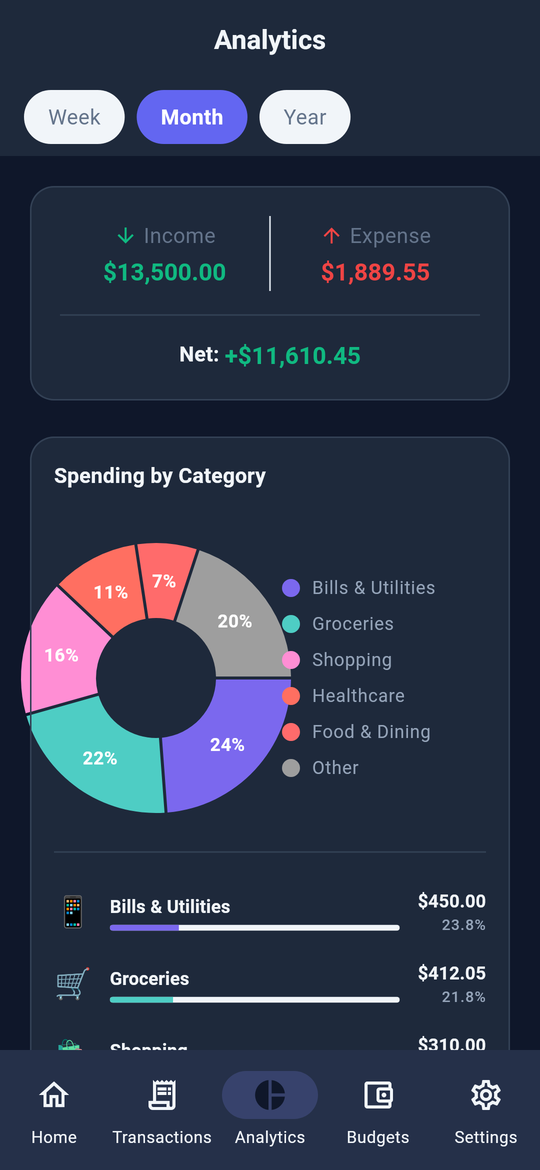
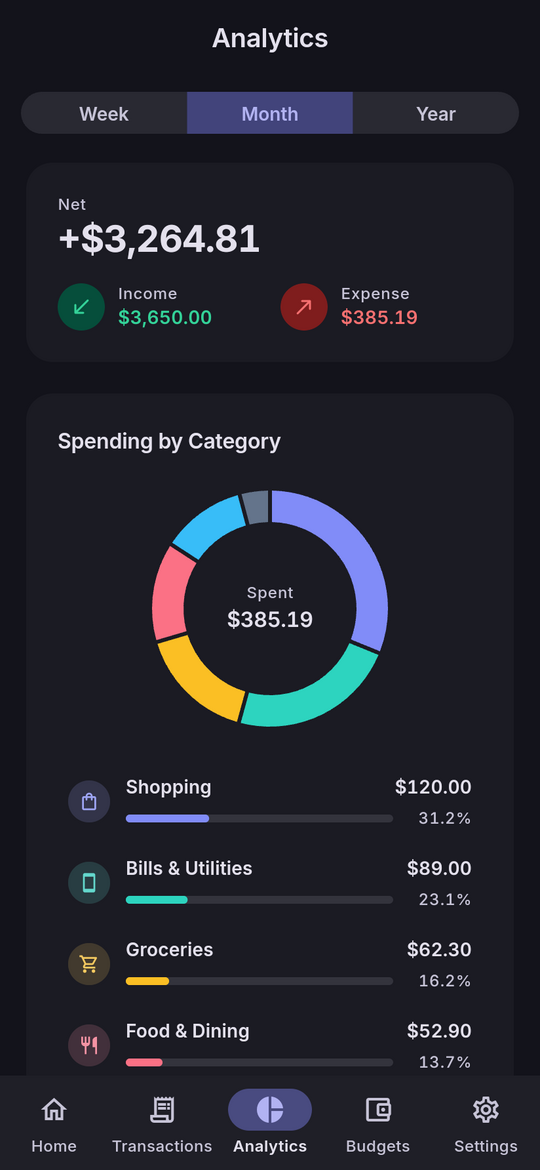
docs: Regenerate screenshots and add the design system guide
docs/screenshots shows the redesigned app (same files and size, sample
data). docs/DESIGN.md documents the color scheme, palette, type scale,
spacing, shape, motion, shared components, patterns, chart rules and the
accessibility checklist for future screens. The README links to it.

diff --git a/docs/DESIGN.md b/docs/DESIGN.md
@@ -1,0 +1,175 @@
+# SpendSheet design system
+
+How SpendSheet looks, and how to build a new screen that fits. The tokens
+live in `lib/core/theme/`; shared components live in `lib/shared/widgets/`.
+
+## Principles
+
+- **Calm by default, color for meaning.** Surfaces are neutral. Green and red
+  mean money in and money out; amber means a budget is close to its limit.
+  Nothing else gets those colors.
+- **Everything comes from the theme.** Widgets never use raw colors. Read
+  `Theme.of(context).colorScheme`, `context.palette` and
+  `Theme.of(context).textTheme`. Light and dark mode then come for free.
+- **Numbers line up.** Every money amount uses tabular figures.
+- **Depth through tone, not lines.** Cards are filled one step off the page;
+  borders are rare.
+
+## Color
+
+### Scheme
+
+`AppColorSchemes` (`app_color_schemes.dart`) builds both schemes with
+`ColorScheme.fromSeed(seedColor: #6366F1, dynamicSchemeVariant: fidelity)`.
+The fidelity variant keeps the brand indigo saturated: primary is `#4648D4`
+in light mode and `#C0C1FF` in dark mode. To restyle the whole app, change
+the seed.
+
+| Surface role | Use for |
+| --- | --- |
+| `surface` | Page background (`scaffoldBackgroundColor`) |
+| `surfaceContainerLow` | Cards (the `Card` default), details bars |
+| `surfaceContainer` | Navigation bar |
+| `surfaceContainerHigh` | Text fields, chips, segmented controls, neutral icon circles, dialogs |
+| `surfaceContainerHighest` | Progress-bar tracks |
+| `palette.raisedSurface` | Raised summary cards (Home, Loans, Accounts): white with a soft shadow in light mode, a lighter tone in dark mode |
+
+Text on surfaces uses `onSurface`. Secondary text (dates, captions, hints)
+uses `onSurfaceVariant`.
+
+### App palette
+
+`AppPalette` (`app_palette.dart`) is a `ThemeExtension` for colors Material
+has no role for. Read it with `context.palette`.
+
+| Token | Light | Dark | Use for |
+| --- | --- | --- | --- |
+| `income` | `#047552` | `#34D399` | Money in, "owed to you" |
+| `expense` | `#B91C1C` | `#F87171` | Money out, "you owe", deletes |
+| `transfer` | primary | primary | Moves between your own accounts |
+| `loan` | `#6D28D9` | `#C4B5FD` | Loans with people |
+| `budgetSafe` / `Warning` / `Danger` | `#047552` / `#A14A07` / `#B91C1C` | `#34D399` / `#FBBF24` / `#F87171` | Budget under 80%, from 80%, at 100% or more. Use `palette.budgetColor(used)`. |
+| `*Container` / `on*Container` | soft tints | deep tints | Backgrounds of icon circles and tabs, with text on them |
+| `chart[0..7]`, `chartOther` | 8 hues + slate | lighter set | Chart series in order of size. Use `palette.chartColor(i)`. |
+
+Every text color meets WCAG AA (4.5:1) on `surface`, `surfaceContainerLow`
+and `surfaceContainerHigh` in its own mode. Every chart color meets 3:1
+against cards. If you add a color, check it the same way.
+
+**Lists:** in a long list, show expense amounts in `onSurface` with a minus
+sign and only income in green, so the list doesn't turn red. `MoneyText`
+still announces "Expense" to screen readers. Summary cards keep the full
+green and red signals.
+
+**User colors:** category and account colors are part of the user's data,
+saved in their spreadsheet. Draw them as they are (`CategoryIcon` tints with
+them), offer `CategoryDefaults.pickerColors` in pickers, and use
+`contrastOn(color)` for marks drawn on top of them.
+
+## Typography
+
+Inter is bundled in `assets/fonts/inter` (weights 400, 500, 600, 700), so it
+renders the same offline. The scale lives in `AppTypography.textTheme` and
+sets no colors.
+
+| Role | Size / line height | Weight | Use for |
+| --- | --- | --- | --- |
+| `displaySmall` | 36 / 44 | 700 | Hero amount |
+| `headlineMedium` | 28 / 36 | 700 | Large amounts (net balance, amount entry) |
+| `headlineSmall` | 24 / 32 | 600 | Page-level headings |
+| `titleLarge` | 20 / 28 | 600 | App bar titles, large card amounts |
+| `titleMedium` | 16 / 24 | 600 | Card and section titles |
+| `titleSmall` | 14 / 20 | 600 | List row titles, row amounts |
+| `bodyLarge` / `bodyMedium` | 16 / 24, 14 / 20 | 400 | Body text |
+| `bodySmall` | 12 / 16 | 400 | Second lines: dates, notes |
+| `labelLarge` | 14 / 20 | 600 | Buttons, chips |
+| `labelMedium` | 12 / 16 | 500 | Captions, badges, nav labels |
+| `labelSmall` | 11 / 16 | 600, +0.6 tracking | Group headers ("Today") |
+
+Money: `style.tabular` (an extension in `app_typography.dart`), or use
+`MoneyText`, which does it for you.
+
+## Spacing, shape, motion
+
+From `tokens.dart`:
+
+- `Space`: `xs` 4, `sm` 8, `md` 12, `lg` 16 (screen inset), `xl` 24 (card
+  padding), `xxl` 32. `Space.fabClearance` (88) is the bottom padding of any
+  list under a floating button.
+- `Radii`: `sm` 8 (chips, badges, bars), `md` 12 (buttons, fields), `lg` 20
+  (cards), `xl` 28 (hero cards, sheets, dialogs).
+- `Motion`: `fast` 150 ms, `medium` 200 ms, `slow` 250 ms, `standard` curve
+  `easeOutCubic`. `countUp` (700 ms) is only for the hero amount. Animations
+  that only decorate check `MediaQuery.disableAnimationsOf`.
+- `Sizes`: `touchTarget` 48, `iconCircle` 40, `iconCircleSmall` 32,
+  `progressBar` 8.
+
+## Components
+
+| Widget | What it is |
+| --- | --- |
+| `MoneyText` | An amount: formatted, tabular, colored by `MoneyKind`, announced as e.g. "Expense, $14.50". Pass `prefix: '-'` or `'+'`, and `color` to override. |
+| `AnimatedMoney` | Hero amount that counts up, then animates between values. |
+| `SignalStat` | Income/expense figure with a direction arrow in a tinted circle, for summary cards. |
+| `CategoryIcon` | A category or account icon in a circle tinted with its color. Maps the stored emoji to a Material icon (`iconForEmoji`) and falls back to the emoji. |
+| `SectionHeader` | Card title row with an optional "View All" action. |
+| `OverlineHeader` | Small group label above cards ("Today", "People"). |
+| `EmptyState` | Icon in a circle, title, optional subtitle and action; `compact` inside cards. |
+| `AutoHideFab` + `FabVisibility` | Floating button that slides away while you scroll down. |
+
+Material components (`Card`, `FilledButton`, `SegmentedButton`, chips, list
+tiles, sheets, dialogs, snack bars, tooltips, the navigation bar) are styled
+in `AppTheme`, so use them plainly. Bottom sheets get their drag handle from
+the theme; don't draw another.
+
+## Patterns
+
+- **Screen:** `Scaffold` on `surface`, centered title, content inset by
+  `Space.lg`.
+- **Summary card:** `raisedSurface`, radius `xl`, `cardShadow`. A neutral
+  headline amount, then `SignalStat`s.
+- **List of items:** group rows in a `Card` under an `OverlineHeader`. Rows
+  are at least 64 dp tall: `CategoryIcon`, title (`titleSmall`), second line
+  (`bodySmall`, `onSurfaceVariant`), `MoneyText` on the right.
+- **Floating button:** wrap it in `AutoHideFab`, listen to scrolling with
+  `NotificationListener<UserScrollNotification>(onNotification:
+  visibility.onScroll)`, and pad the list's bottom by `Space.fabClearance`.
+- **Full-screen pages** (forms, details) are `GoRoute`s with
+  `parentNavigatorKey: _rootNavigatorKey`, so they cover the bottom navigation.
+- **Destructive actions:** red only in the confirming dialog's button and in
+  swipe actions (`colorScheme.error`); the icon on the row stays neutral.
+
+## Charts (fl_chart)
+
+- Colors: `colorScheme.primary` for a single series, `palette.chart` by rank
+  for categories, `palette.income` / `palette.expense` for in versus out.
+- Bars have rounded tops (`Radii.sm`). Gridlines are horizontal only, dashed,
+  in `outlineVariant` at 60%.
+- Highlight today or the selected item with full color and dim the rest.
+  Pair the color with something else too (a bold label, a marker).
+- Tooltips: background `inverseSurface`, text `onInverseSurface`, numbers
+  tabular.
+- Axis labels: `labelSmall`, `onSurfaceVariant`, tabular figures.
+- Give the chart a `Semantics` label that sums up what it shows.
+
+## Accessibility checklist
+
+- Text meets 4.5:1; icons and chart marks meet 3:1.
+- Touch targets are at least 48 dp (the theme sets this for buttons).
+- Every `IconButton` has a `tooltip`; amounts use `MoneyText` or a
+  `Semantics` label that says what the number is.
+- Meaning never depends on color alone: signs, arrows, labels.
+- Check the screen at 1.3× text size (all screens were checked at 1.3x for
+  overflow). Let long labels ellipsize rather than wrap mid-number.
+- Haptics: `selectionClick` on choices, `lightImpact` on keypad keys,
+  `mediumImpact` on a successful save.
+
+## Building a new screen
+
+1. Use the Material component the theme already styles before making a custom one.
+2. Colors from `colorScheme` or `context.palette`, text from `textTheme`,
+   numbers from `Space` / `Radii` / `Motion` / `Sizes`.
+3. Amounts through `MoneyText`; icons for categories through `CategoryIcon`.
+4. Check light and dark mode, and 1.3× text.
+5. Widget tests can wrap the widget in a plain `MaterialApp`:
+   `context.palette` falls back to a palette built from the active scheme.

diff --git a/README.md b/README.md
@@ -99,6 +99,7 @@ lib/
 - **Local Database**: SQLite (sqflite)
 - **Remote Storage**: Google Sheets API
 - **Code Generation**: Freezed + json_serializable
+- **Design system**: Material 3 with tokens in `lib/core/theme` (see [docs/DESIGN.md](docs/DESIGN.md))
 
 ## Sync Architecture
 
